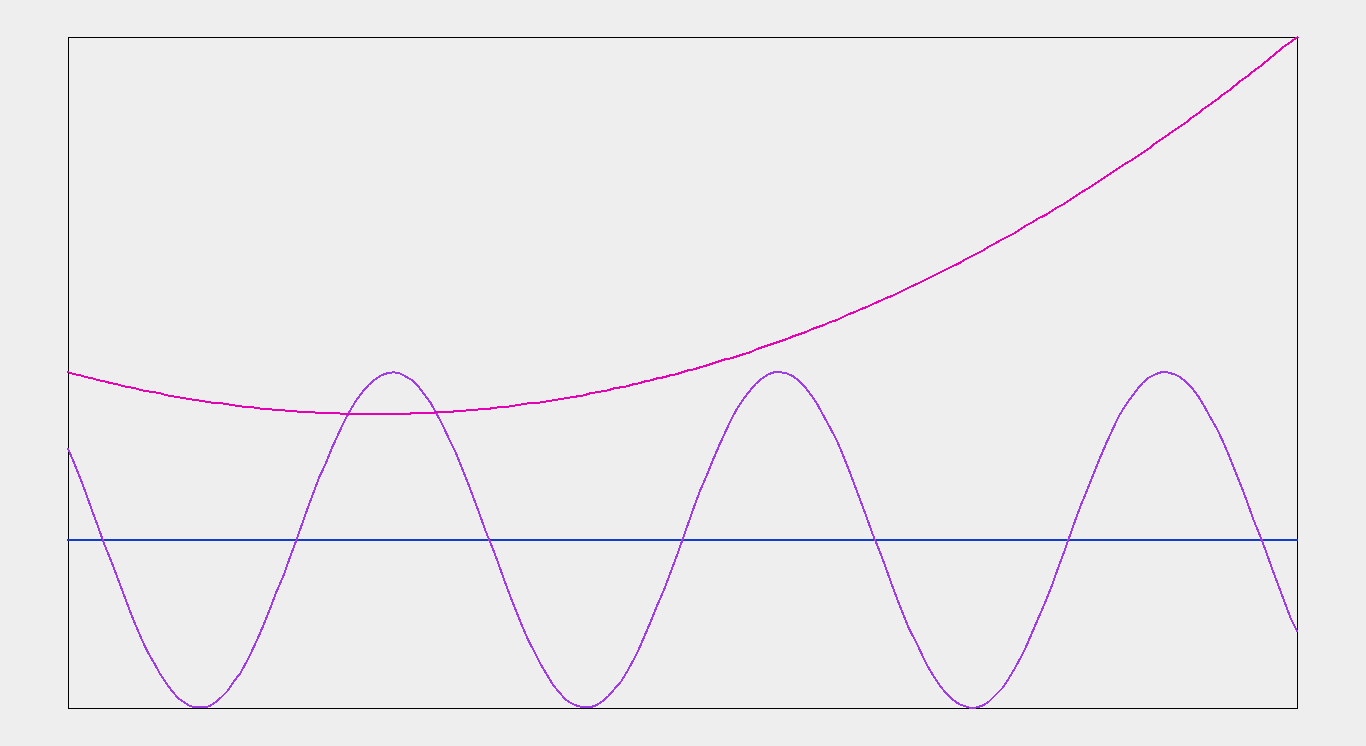
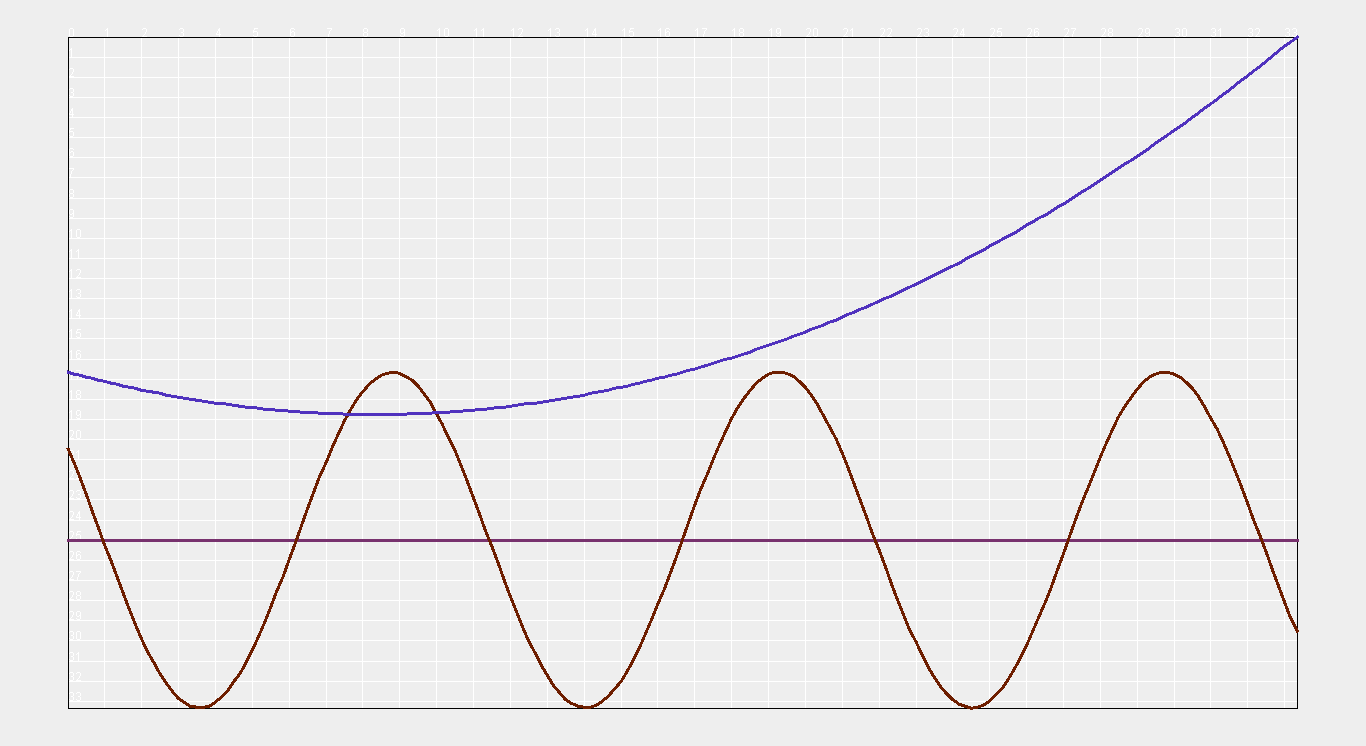
Finally added an algorithm to draw divisions, still needs a way to be modified according user. Other modifications are irrelevant and only were for mere testing.

diff --git a/Graficar/src/resources/CoordenadasGraficasMIA.java b/Graficar/src/resources/CoordenadasGraficasMIA.java
@@ -12,11 +12,9 @@ import java.math.RoundingMode;
 
 import javax.swing.event.MouseInputAdapter;
 
-import stream.O;
-
 /**
  * @author Jedabero
- *
+ * @since 0.4
  */
 public class CoordenadasGraficasMIA extends MouseInputAdapter {
 	
@@ -31,7 +29,6 @@ public class CoordenadasGraficasMIA extends MouseInputAdapter {
 	 * 
 	 */
 	public CoordenadasGraficasMIA(JGrafica jg, Interval x, Interval y) {
-		// TODO Auto-generated constructor stub
 		this.jGra = jg;
 		this.X = x;
 		this.Y = y;

diff --git a/Graficar/src/UI/GraficadorUI.java b/Graficar/src/UI/GraficadorUI.java
@@ -53,7 +53,7 @@ import grafica.JLabelGrafica;
 /**
  * 
  * @author <a href="https://twitter.com/Jedabero" target="_blank">Jedabero</a>
- * 
+ * @since 0.1
  */
 
 public class GraficadorUI{

diff --git a/Graficar/src/Graficador.java b/Graficar/src/Graficador.java
@@ -8,7 +8,7 @@ import UI.GraficadorUI;
 
 /**
  * @author <a href="https://twitter.com/Jedabero" target="_blank">Jedabero</a>
- *
+ * @since 0.2
  */
 public class Graficador {
 	

diff --git a/Graficar/src/resources/CustomException.java b/Graficar/src/resources/CustomException.java
@@ -5,7 +5,7 @@ package resources;
 
 /**
  * @author Jedabero
- *
+ * @since 0.4
  */
 public class CustomException extends Exception {
 
